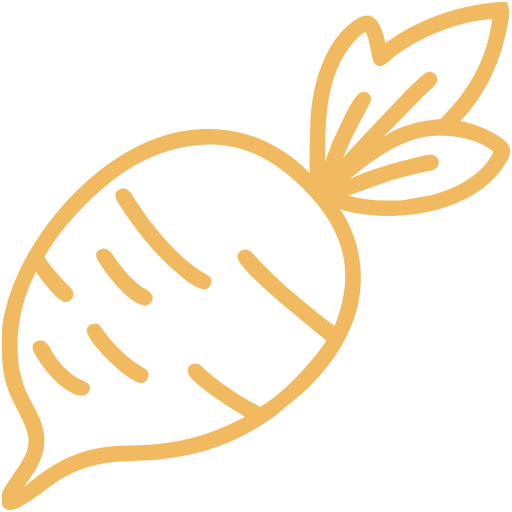
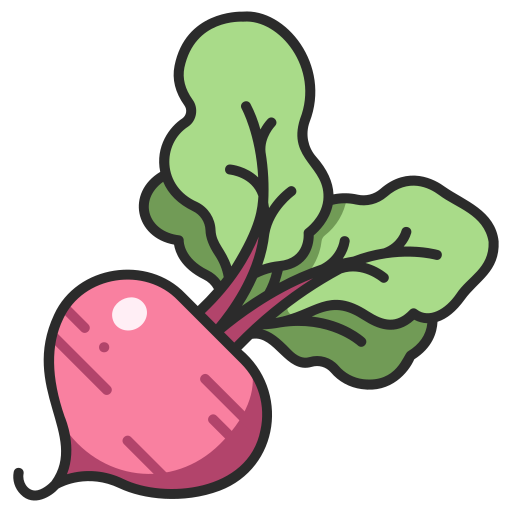
search plants fn connection

diff --git a/src/components/ComparePlants.js b/src/components/ComparePlants.js
@@ -9,6 +9,7 @@ import axios from "axios";
 import ClosableTabs from "./ClosableTabs";
 import plantBg from "../assets/bg-img.avif";
 import CompareCard from "./CompareCard";
+import DropdownSuggestions from "./DropdownSuggestions";
 
 export default function ComparePlants() {
   const [plants, setPlants] = useState(() => {
@@ -24,6 +25,8 @@ export default function ComparePlants() {
   });
   const [modalMsg, setModalMsg] = useState("");
   const [modalTitle, setModalTitle] = useState("");
+  const [plantNameSuggestions, setPlantNameSuggestions] = useState([]);
+  const [showSuggestions, setShowSuggestions] = useState(true);
 
   useEffect(() => {
     localStorage.setItem("plants", JSON.stringify(plants));
@@ -31,6 +34,13 @@ export default function ComparePlants() {
     // console.log(plants);
     // console.log(plantsInfo);
   }, [plants, plantsInfo]);
+
+  useEffect(() => {
+    searchPlantFn();
+    if (newPlant === "") {
+      setShowSuggestions(false);
+    }
+  }, [newPlant]);
 
   const compareFn = async () => {
     const params = new URLSearchParams();
@@ -91,6 +101,19 @@ export default function ComparePlants() {
     }
   };
 
+  const searchPlantFn = async () => {
+    try {
+      const res = await axios({
+        method: "get",
+        url: `https://sengzulu.gentlehill-6b9262ed.australiaeast.azurecontainerapps.io/v2/plants/search?search=${newPlant}`,
+      });
+      setPlantNameSuggestions(res.data);
+      // console.log(res.data)
+    } catch (e) {
+      console.log(e);
+    }
+  };
+
   return (
     <div
       style={{
@@ -111,23 +134,51 @@ export default function ComparePlants() {
           </div>
 
           <div className="flex flex-row justify-between">
-            <Form>
-              <Row>
-                <Col xs="auto">
-                  <Form.Control
-                    type="text"
-                    placeholder="Search for plants to compare"
-                    className=" mt-3"
-                    style={{
-                      width: "400px",
-                      borderColor: "black",
-                      borderWidth: "2px",
-                    }}
-                    onChange={(e) => setNewPlant(e.target.value)}
-                    onKeyDown={(e) => {
-                      if (e.key === "Enter") {
-                        e.preventDefault();
-                        setPlants((prev) => {
+            <div className="flex flex-col">
+              <Form>
+                <Row>
+                  <Col xs="auto">
+                    <Form.Control
+                      type="text"
+                      placeholder="Search for plants to compare"
+                      className=" mt-3"
+                      value={newPlant}
+                      style={{
+                        width: "400px",
+                        borderColor: "black",
+                        borderWidth: "2px",
+                      }}
+                      onChange={(e) => {
+                        setNewPlant(e.target.value);
+                        setShowSuggestions(true);
+                      }}
+                      onKeyDown={(e) => {
+                        if (e.key === "Enter") {
+                          e.preventDefault();
+                          setPlants((prev) => {
+                            e.preventDefault();
+                            const foundPlant = prev.find((p) => p === newPlant);
+                            if (!foundPlant && newPlant !== "") {
+                              return [...prev, newPlant];
+                            } else {
+                              return prev;
+                            }
+                          });
+                        }
+                      }}
+                    />
+                  </Col>
+                  <Col xs="auto">
+                    <Button
+                      style={{
+                        backgroundColor: "var(--dark-green)",
+                        borderColor: "black",
+                        marginLeft: "-20px",
+                        borderWidth: "2px",
+                      }}
+                      className="mt-3 hover:!bg-white hover:!text-black hover:border hover:border-solid hover:border-black"
+                      onClick={(e) => {
+                        return setPlants((prev) => {
                           e.preventDefault();
                           const foundPlant = prev.find((p) => p === newPlant);
                           if (!foundPlant && newPlant !== "") {
@@ -136,36 +187,20 @@ export default function ComparePlants() {
                             return prev;
                           }
                         });
-                      }
-                    }}
-                  />
-                </Col>
-                <Col xs="auto">
-                  <Button
-                    style={{
-                      backgroundColor: "var(--dark-green)",
-                      borderColor: "black",
-                      marginLeft: "-20px",
-                      borderWidth: "2px",
-                    }}
-                    className="mt-3 hover:!bg-white hover:!text-black hover:border hover:border-solid hover:border-black"
-                    onClick={(e) => {
-                      return setPlants((prev) => {
-                        e.preventDefault();
-                        const foundPlant = prev.find((p) => p === newPlant);
-                        if (!foundPlant && newPlant !== "") {
-                          return [...prev, newPlant];
-                        } else {
-                          return prev;
-                        }
-                      });
-                    }}
-                  >
-                    +Add
-                  </Button>
-                </Col>
-              </Row>
-            </Form>
+                      }}
+                    >
+                      +Add
+                    </Button>
+                  </Col>
+                </Row>
+              </Form>
+              <DropdownSuggestions
+                plantSuggestions={plantNameSuggestions}
+                setPlant={setNewPlant}
+                setShow={setShowSuggestions}
+                show={showSuggestions}
+              />
+            </div>
           </div>
 
           <div className="flex flex-row m-4 pr-3 justify-center w-full">

diff --git a/src/components/PlantInfoPage.js b/src/components/PlantInfoPage.js
@@ -8,6 +8,7 @@ import DisplayModal from "./DisplayModal";
 import axios from "axios";
 import plantBg from "../assets/bg-img.avif";
 import PlantInfoCard from "./PlantInfoCard";
+import DropdownSuggestions from "./DropdownSuggestions";
 
 export default function PlantInfo() {
   const [listPlant, setListPlant] = useState(() => {
@@ -20,8 +21,10 @@ export default function PlantInfo() {
       ? JSON.parse(localStorage.getItem("listPlantInfo"))
       : {};
   });
+  const [plantNameSuggestions, setPlantNameSuggestions] = useState([])
   const [modalMsg, setModalMsg] = useState("");
   const [modalTitle, setModalTitle] = useState("");
+  const [showSuggestions, setShowSuggestions] = useState(true)
 
   useEffect(() => {
     localStorage.setItem("listPlant", JSON.stringify(listPlant));
@@ -29,6 +32,15 @@ export default function PlantInfo() {
     // console.log(listPlant);
     // console.log(listPlantInfo);
   }, [listPlant, listPlantInfo]);
+
+  useEffect(() => {
+    // if (plantNameSuggestions.length == 0) return
+    searchPlantFn()
+    if (listPlant === "") {
+      setShowSuggestions(false)
+    }
+
+  },[listPlant])
 
   const infoFn = async () => {
     try {
@@ -42,6 +54,20 @@ export default function PlantInfo() {
       setModalTitle("Woops!");
     }
   };
+
+  const searchPlantFn = async () => {
+    try {
+      const res = await axios ({
+        method: "get",
+        url:`https://sengzulu.gentlehill-6b9262ed.australiaeast.azurecontainerapps.io/v2/plants/search?search=${listPlant}`,
+      })
+      setPlantNameSuggestions(res.data)
+      // console.log(res.data)
+    }
+    catch (e){
+      console.log(e)
+    }
+  }
 
   return (
     <div
@@ -63,7 +89,8 @@ export default function PlantInfo() {
           </div>
 
           <div className="flex flex-row justify-between">
-            <Form>
+            <div className="flex flex-col">
+            <Form >
               <Row>
                 <Col xs="auto">
                   <Form.Control
@@ -75,7 +102,13 @@ export default function PlantInfo() {
                       borderColor: "black",
                       borderWidth: "2px",
                     }}
-                    onChange={(e) => setListPlant(e.target.value)}
+                    value={listPlant}
+                    onChange={(e) => {
+                      setListPlant(e.target.value)
+                      // searchPlantFn()
+                      setShowSuggestions(true)
+
+                    }}
                     onKeyDown={(e) => {
                       if (e.key === "Enter") {
                         e.preventDefault();
@@ -100,6 +133,9 @@ export default function PlantInfo() {
                 </Col>
               </Row>
             </Form>
+            <DropdownSuggestions plantSuggestions={plantNameSuggestions} setPlant={setListPlant}
+            setShow={setShowSuggestions} show={showSuggestions}/>
+            </div>
           </div>
 
           <div className="flex flex-row justify-between gap-5 overflow flex-wrap mt-3">
@@ -136,6 +172,7 @@ export default function PlantInfo() {
           show={modalMsg !== ""}
           setModalMsg={setModalMsg}
         />
+        
       </div>
     </div>
   );

diff --git a/src/tests/Datapage.test.js b/src/tests/Datapage.test.js
@@ -46,11 +46,13 @@ test("Check whether UI elements are displayed", () => {
   const soilDropdown = screen.getByTestId("soil-dropdown");
   expect(soilDropdown).toBeVisible();
 });
-test("Test soil dropdown", () => {
+test("Test soil dropdown", async () => {
   render(<DataPage />);
   const soilDropdown = screen.getByTestId("soil-dropdown");
 
-  expect(within(soilDropdown).getAllByRole("option")).toHaveLength(7);
+  await waitFor(() => {
+    expect(within(soilDropdown).getAllByRole("option")).toHaveLength(7);
+  });
 });
 
 test("Check irrigation guide", async () => {
@@ -101,7 +103,9 @@ test("Check irrigation guide", async () => {
     "The days you should water your plants",
   );
 
-  expect(wateringGuideTitle).toBeVisible();
+  await waitFor(() => {
+    expect(wateringGuideTitle).toBeVisible();
+  });
 });
 
 test("Check if location alert is displayed when location is not entered", () => {
@@ -125,7 +129,7 @@ test("Check if location alert is displayed when location is not entered", () => 
   expect(mockAlert).toHaveBeenCalledWith("Enter the location of your plant");
 });
 
-test("Check if plant name alert is displayed when plant name is not entered", () => {
+test("Check if plant name alert is displayed when plant name is not entered", async () => {
   axios.get.mockResolvedValueOnce({
     data: [
       {
@@ -162,7 +166,9 @@ test("Check if plant name alert is displayed when plant name is not entered", ()
 
   fireEvent.click(wateringGuideBtn);
 
-  expect(mockAlert).toHaveBeenCalledWith("Enter a plant name");
+  await waitFor(() => {
+    expect(mockAlert).toHaveBeenCalledWith("Enter a plant name");
+  })
 
   mockAlert.mockRestore();
 });

diff --git a/src/components/DropdownSuggestions.js b/src/components/DropdownSuggestions.js
@@ -1,0 +1,34 @@
+import Dropdown from "react-bootstrap/Dropdown";
+
+export default function DropdownSuggestions(props) {
+  return (
+    <Dropdown show={props.show}>
+      <Dropdown.Menu
+        style={{
+          maxHeight: "10vh",
+          overflowY: "auto",
+          width: "51vh",
+          background: "rgba(255, 255, 255, 0.5)",
+          backdropFilter: "blur(12px)",
+          borderRadius: "12px",
+        }}
+      >
+        {props.plantSuggestions.length > 0 &&
+          props.plantSuggestions.map((plant, index) => {
+            return (
+              <Dropdown.Item
+                key={index}
+                onClick={() => {
+                  props.setPlant(plant);
+                  props.setShow(false);
+                }}
+                className="text-center border-black border-solid border-white"
+              >
+                {plant}
+              </Dropdown.Item>
+            );
+          })}
+      </Dropdown.Menu>
+    </Dropdown>
+  );
+}

diff --git a/src/components/Homepage.js b/src/components/Homepage.js
@@ -18,7 +18,7 @@ export default function Homepage() {
     >
       <Navbar />
       <div className=" min-h-screen flex flex-col"
-      data-testId={"data-container"}>
+      data-testid={"data-container"}>
         <div
           className="flex flex-row gap-[20vw] bg-white/30 mx-5 p-5 items-center justify-center
                         rounded-3xl

diff --git a/src/components/Datapage.js b/src/components/Datapage.js
@@ -72,7 +72,7 @@ export default function DataPage() {
             min: res.data.daily.temperature_2m_min[i],
             rain: res.data.daily.rain_sum[i],
         }))
-        console.log(res)
+        // console.log(res)
         setWeather(resultData)
       }
 
